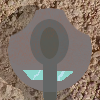
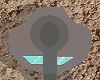
orientacion

diff --git a/public/js/battle.js b/public/js/battle.js
@@ -1,3 +1,5 @@
+var objetos = [];
+
 $(document).ready(function() {
 
 	$.ajax({
@@ -27,11 +29,22 @@ $(document).ready(function() {
 			//console.log(html);
 
 			$("#juego>div>div").css("height", (pixeles) + "px");
-			// $("#juego>div>div").css("backgroundImage", "url('img/sand_texture.jpg')");
-			// $("#juego>div>div").css("backgroundSize", "cover");
+			$("#juego>div>div").css("backgroundImage", "url('img/sand_texture.jpg')");
+			$("#juego>div>div").css("backgroundSize", "cover");
+			objetos = res.partida.tablero;
 			cargarObjetos(res.partida.tablero);
 		}
 	})
+
+
+	// $("#left input").click(function(){
+	// 	for(var t of objetos){
+	// 		if(t._tipo == "tanque"){
+	// 			t._o="sur"
+	// 		}
+	// 		console.log(t);
+	// 	}
+	// })
 })
 
 
@@ -43,10 +56,38 @@ function cargarObjetos(objetos) {
 				$("#" + o._y + "_" + o._x).css("backgroundSize", "cover")
 				console.log($("#" + o._y + "_" + o._x));
 				break;
+			case "tanque":
+				// $("#" + o._y + "_" + o._x).css("backgroundImage", "url('img/tank.png')");
+				// $("#" + o._y + "_" + o._x).css("backgroundSize", "cover")
+				orientacion(o);
+				console.log($("#" + o._y + "_" + o._x));
+				break;
 			default:
 				$("#juego>div>div").css("backgroundImage", "url('img/sand_texture.jpg')");
 				$("#juego>div>div").css("backgroundSize", "cover")
 				break;
 		}
+	}
+}
+
+function orientacion(t) {
+	switch (t._o) {
+		case "norte":
+			$("#" + t._y + "_" + t._x).css("background-image", "url('img/tankeWars_Up.png')");
+			$("#" + t._y + "_" + t._x).css("background-size", "cover")
+			break;
+		case "sur":
+			$("#" + t._y + "_" + t._x).css("backgroundImage", "url('img/tankeWars_Down.png')");
+			$("#" + t._y + "_" + t._x).css("backgroundSize", "cover")
+			break;
+		case "este":
+			$("#" + t._y + "_" + t._x).css("backgroundImage", "url('img/tankeWars_Right.png')");
+			$("#" + t._y + "_" + t._x).css("backgroundSize", "cover")
+			break;
+		case "oeste":
+			$("#" + t._y + "_" + t._x).css("backgroundImage", "url('img/tankeWars_Left.png')");
+			$("#" + t._y + "_" + t._x).css("backgroundSize", "cover")
+			break;
+
 	}
 }

diff --git a/server.js b/server.js
@@ -26,8 +26,10 @@ let partida = new Partida("partida1", 8, 8);
 const app = express();
 const server = http.createServer(app);
 
+var tanques = [];
 var partidasJ = [];
 partida.iniciarPartida();
+
 partidasJ.push(partida.infoPartida());
 app.use(BodyParser.json()); //Recibir peticiones POST con datos en json
 app.use(BodyParser.urlencoded({
@@ -133,7 +135,7 @@ app.post('/inicioJuego', ensureAuth, function(req, res) {
 	// console.log("inicio de juego con id=" + req.user.ID)
 
 	// console.log('recogiendo tanques')
-	var tanques = [];
+	// var tanques = [];
 	var error = "";
 	algo.consultarTanques(req.user.ID, (err, codeErr, rows) => {
 		if (codeErr == 0) {

diff --git a/public/css/battle.css b/public/css/battle.css
@@ -13,8 +13,8 @@
 	display: flex;
 	justify-content: space-between;
 	border: 1px solid black;
-	background-image: url('../img/sand_texture.jpg');
-	background-size: cover;
+	/*background-image: url('../img/sand_texture.jpg');*/
+	/*background-size: cover;*/
 }
 
 #act{

diff --git a/modules/partida.js b/modules/partida.js
@@ -155,6 +155,8 @@ class Partida {
 		this._tablero.insertarRoca();
 		this._tablero.insertarRoca();
 		this._tablero.insertarRoca();
+
+		this._tablero.insertarTanque(new elementos.tanque("aitor","sur"));
 	}
 
 }
